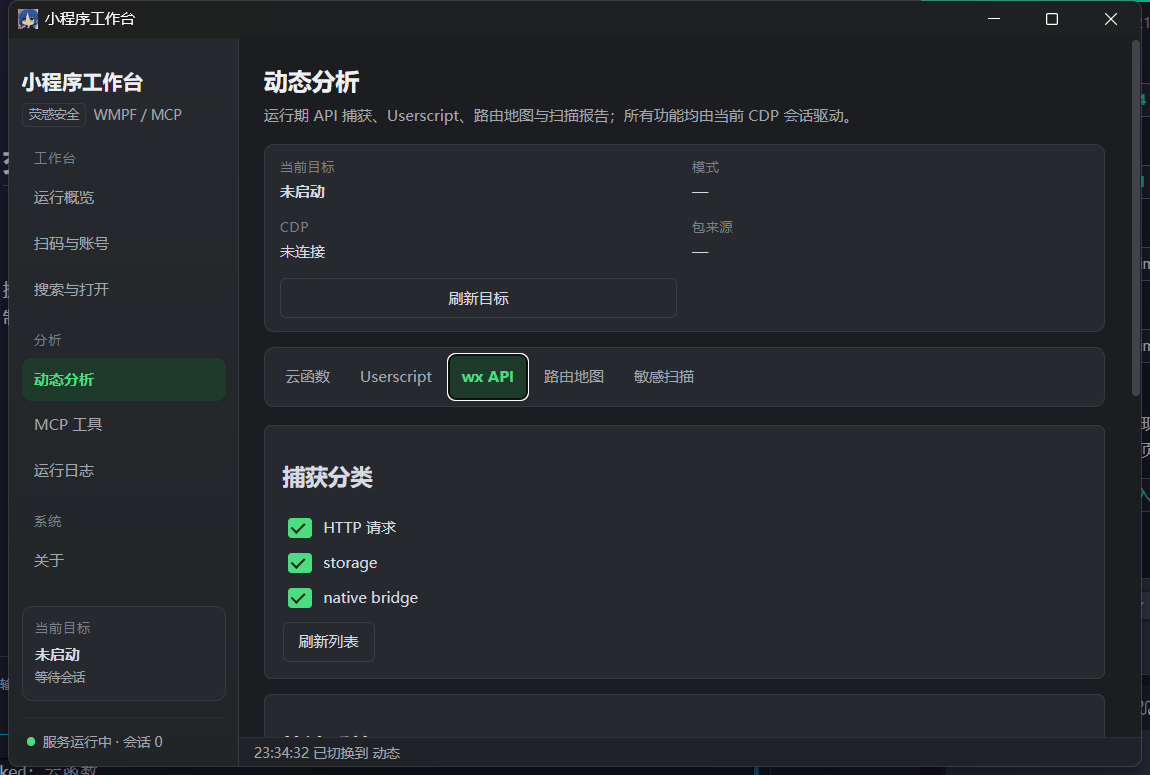
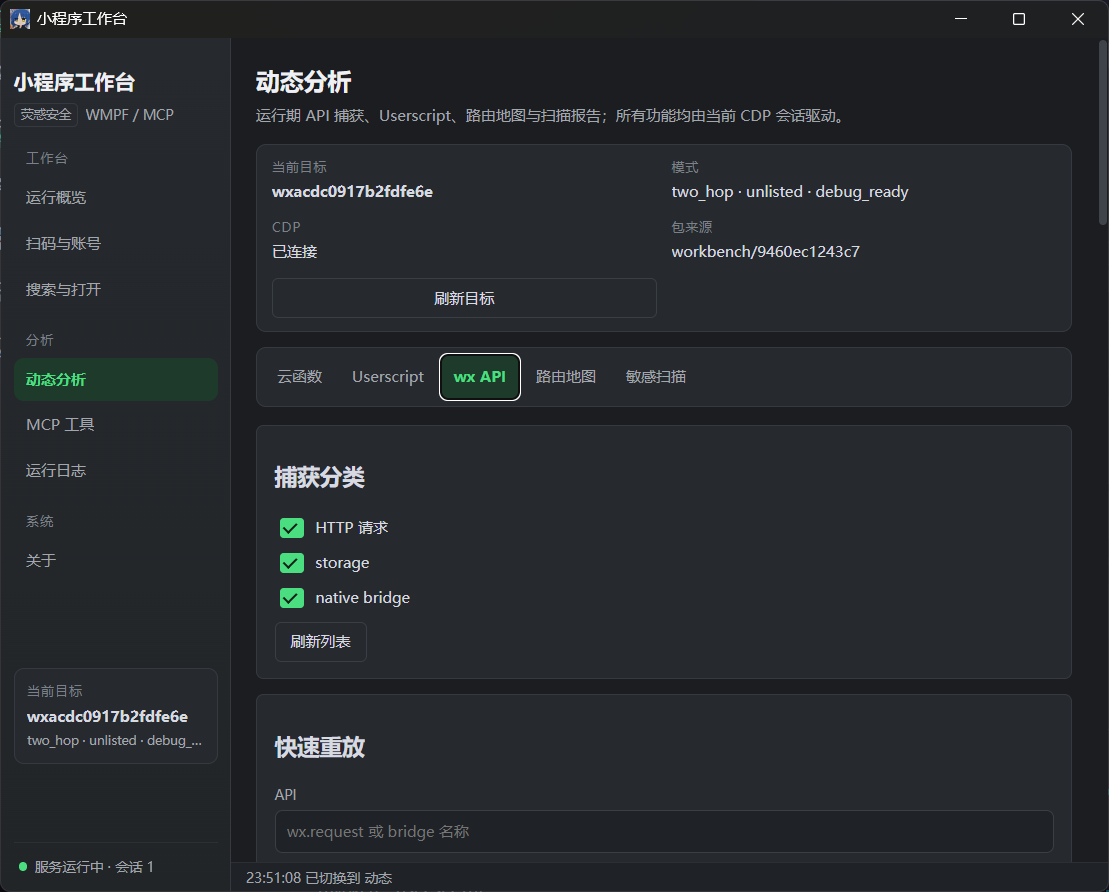
docs(screenshots): crop exact windows and show launched mini program

diff --git a/README.md b/README.md
@@ -84,7 +84,7 @@
 
 ## 界面预览
 
-以下截图均来自 1.0.5 正式版本，使用默认窗口尺寸。
+以下截图均来自 1.0.5 正式版本，按窗口可见边界精确裁剪，不包含桌面背景。
 
 <div align="center">
 
@@ -116,8 +116,8 @@
 
 <br><br>
 
-### 启动后的会话
-二跳目标激活后显示 `debug_ready` 与调试入口
+### 启动后的会话与目标小程序
+左侧为工作台会话状态，右侧为二跳打开的目标小程序；两者并排展示，不重叠
 
 <img src="docs/images/wx_04.png" alt="启动后的会话" width="860">
 
